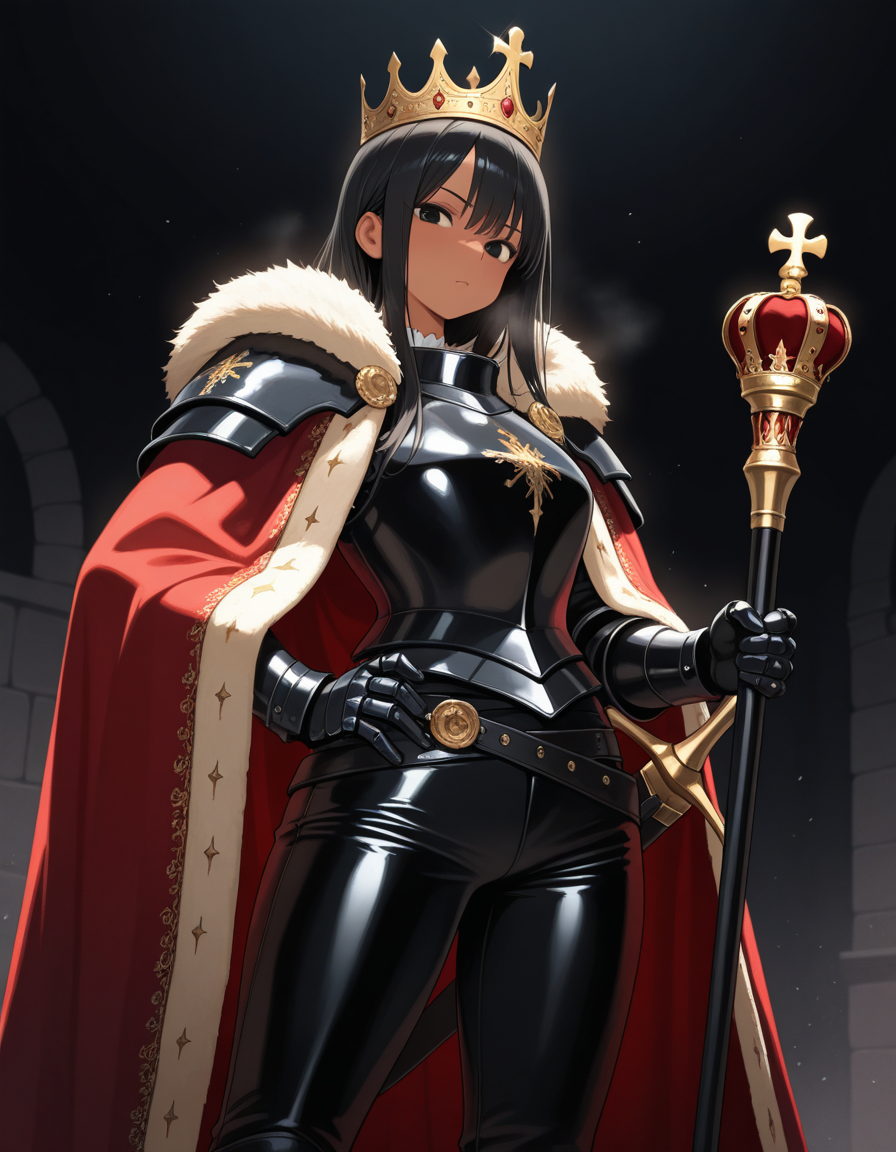
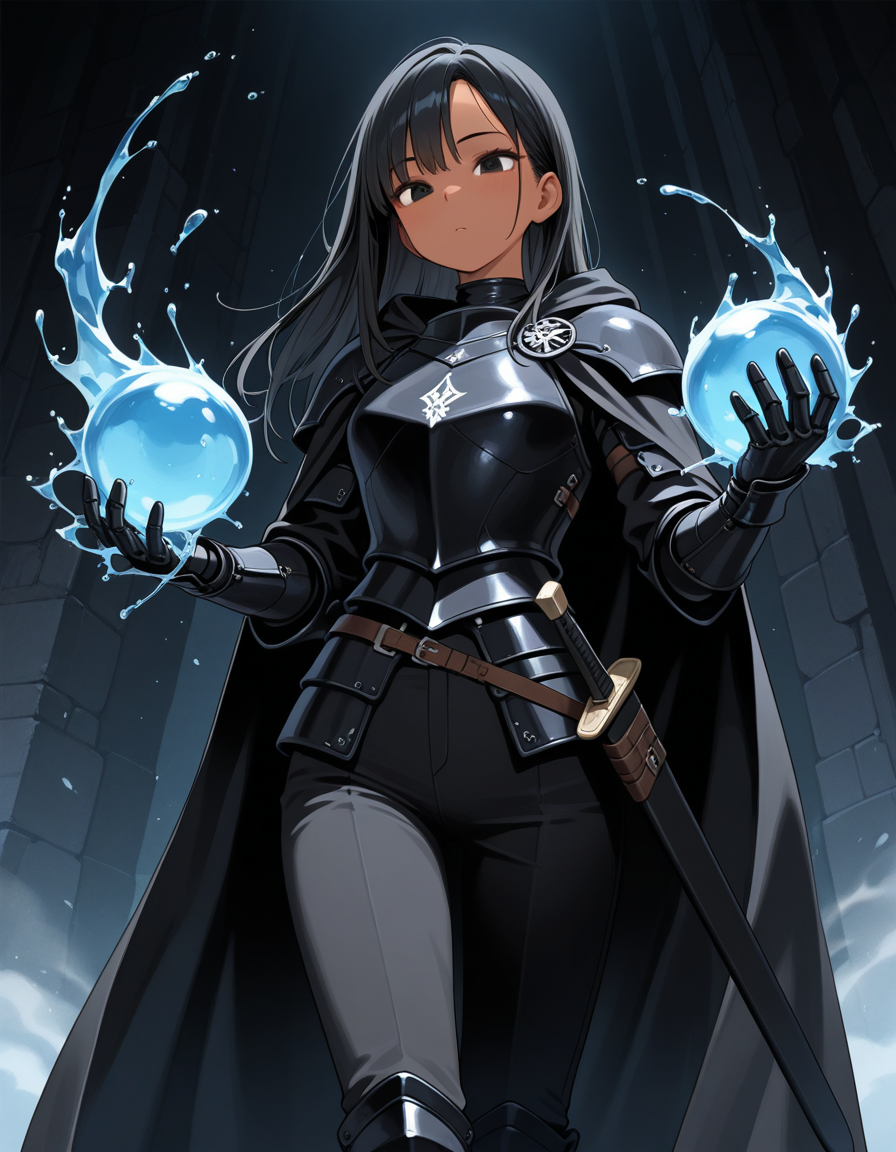
Entry updates

diff --git a/src/entries/möhnət-ikaru.md b/src/entries/möhnət-ikaru.md
@@ -52,6 +52,11 @@ In part one of [The Prince's Truth](/the-prince's-truth) Möhnət looks nearly i
 <!-- Describe the character's personlity here -->
 [personaility]
 
+({figure
+![Möhnət using her water magic](images/möhnət-ikaru-2.png)
+Möhnət using her [water magic](/magic#core-magic)
+})
+
 ## Combat & Magic
 
 <!-- Describe the character's combat and magic skills here -->

diff --git a/src/entries/qatil-ikaru.md b/src/entries/qatil-ikaru.md
@@ -2,6 +2,7 @@
 
 ({infobox
 # Qatil Ikaru
+![Qatil Ikaru](images/qatil-ikaru-1.png)
 | Name: Qatil Ikaru
 | Aliases: None
 | Kingdom of Origin: [Ikarye](/ikarye)
